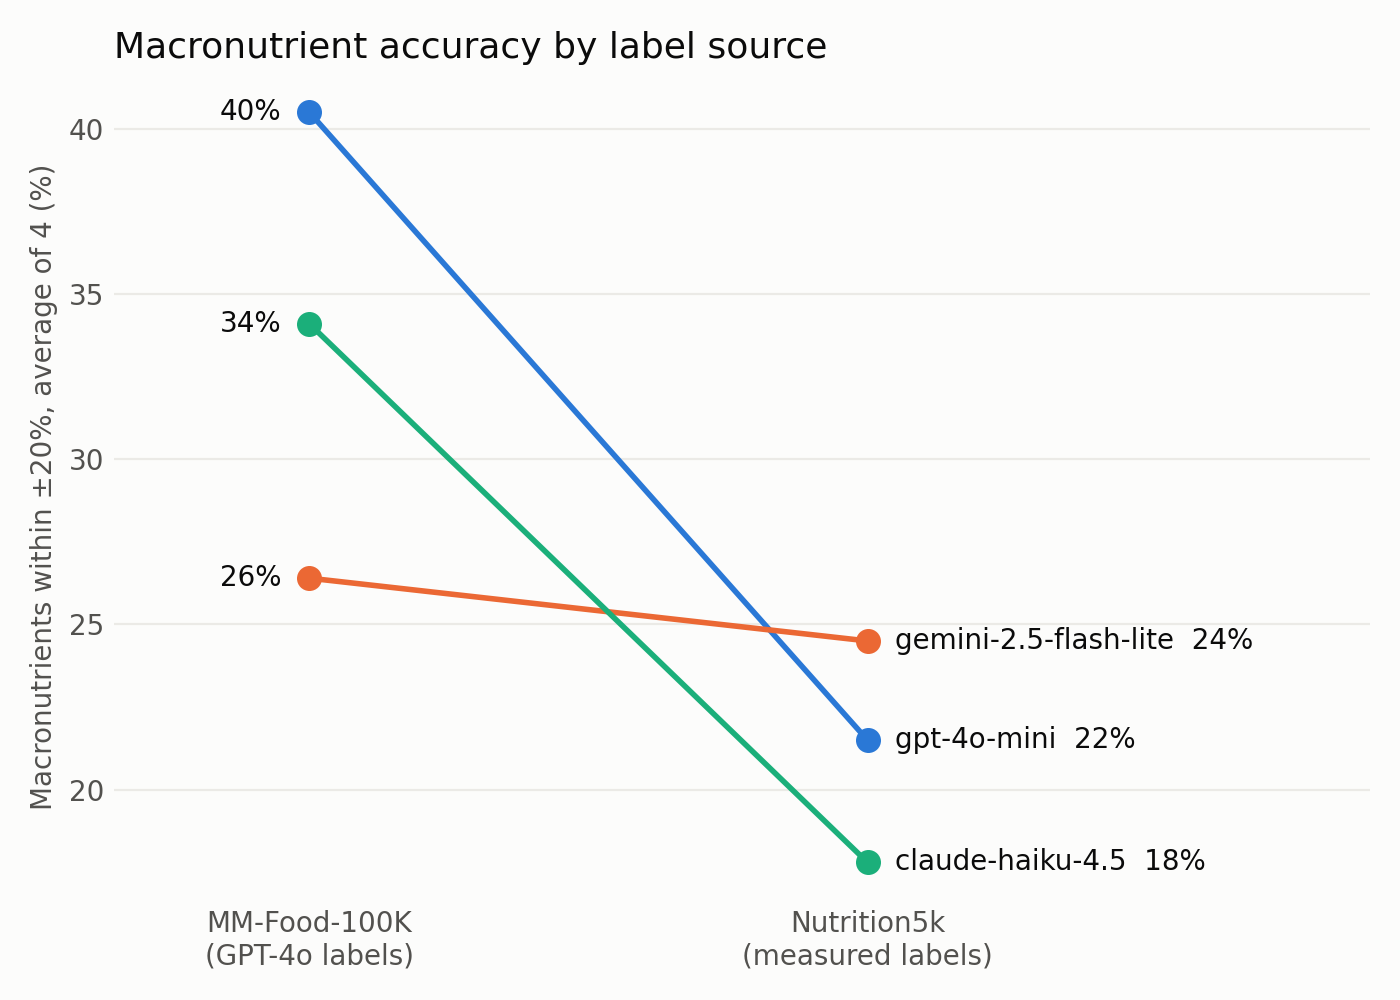
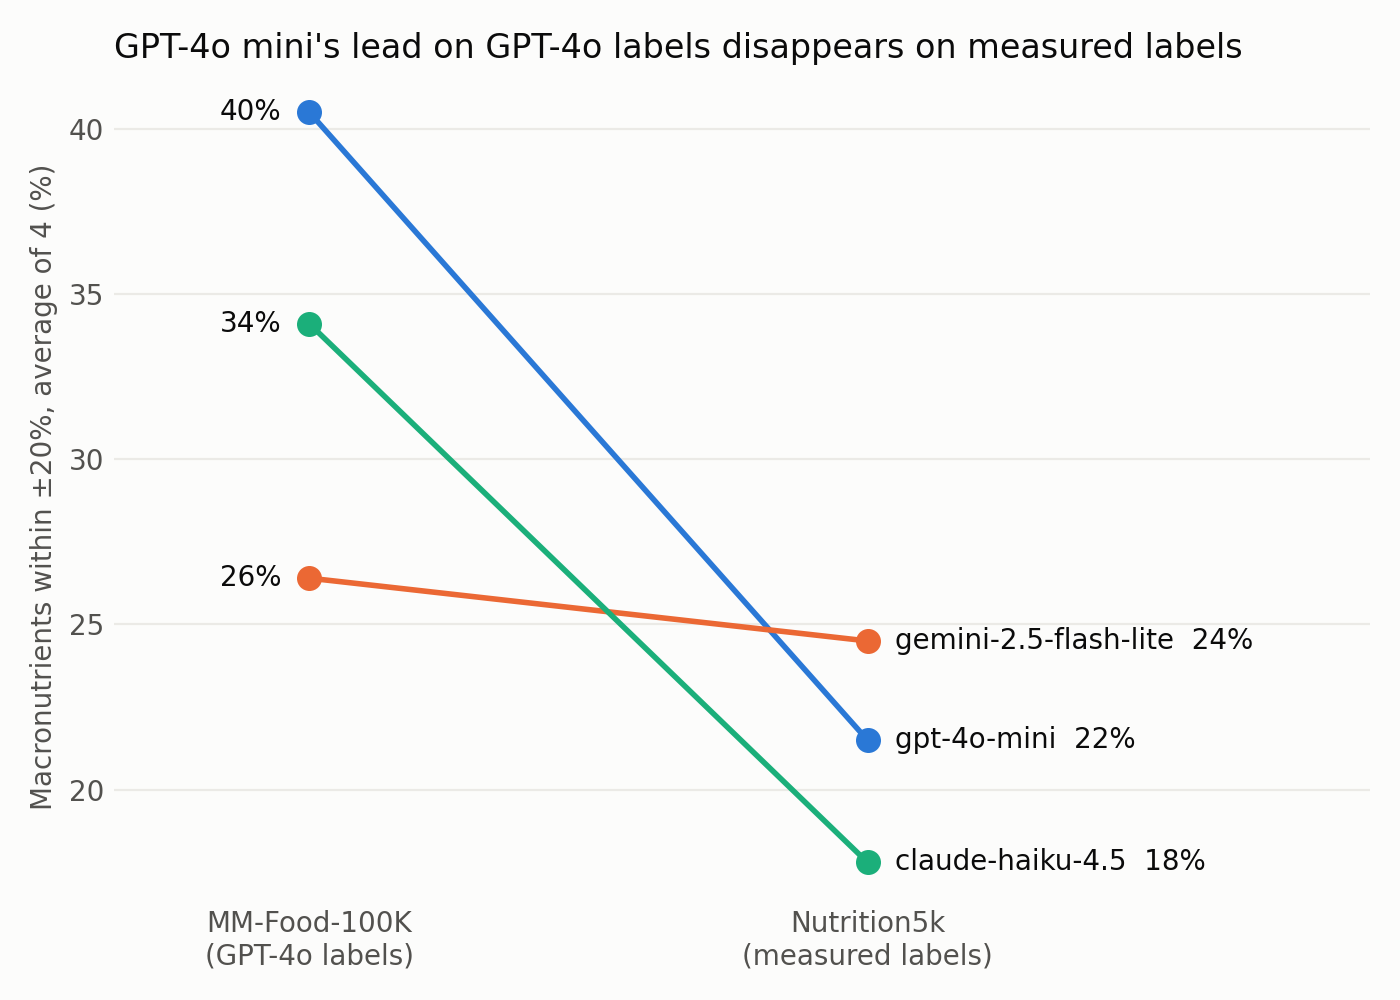
docs: add re-run results on GPT-4o vs measured labels

Changed region(s): [[0.0614, 0.031, 0.8907, 0.062]]

diff --git a/src/compare.py b/src/compare.py
@@ -108,7 +108,8 @@ def rank_shift_chart(summary, models, out_path):
     ax.set_xticks(xs, [label.replace(" (", "\n(") for label in DATASETS.values()], color=TEXT)
     ax.set_xlim(-0.35, 1.9)
     ax.set_ylabel("Macronutrients within ±20%, average of 4 (%)", color=MUTED)
-    ax.set_title("Macronutrient accuracy by label source", loc="left", fontsize=13, color=TEXT)
+    ax.set_title("GPT-4o mini's lead on GPT-4o labels disappears on measured labels",
+                 loc="left", fontsize=12, color=TEXT)
     ax.tick_params(colors=MUTED, length=0)
     for side in ["top", "right", "left", "bottom"]:
         ax.spines[side].set_visible(False)
